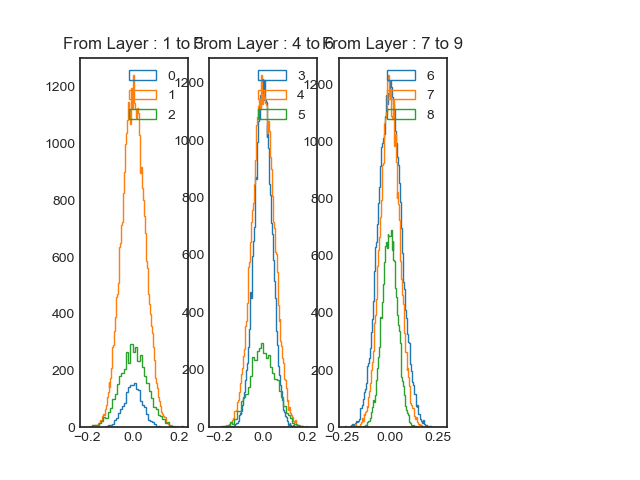
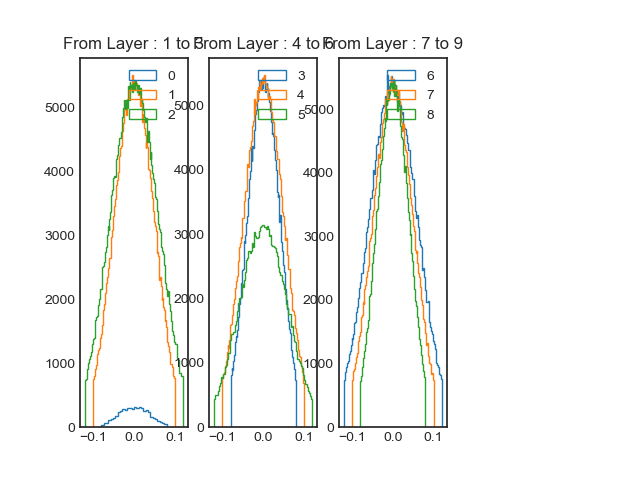
s

diff --git a/NeuralNetwork/Unfair/a.py b/NeuralNetwork/Unfair/a.py
@@ -16,7 +16,7 @@ tf.set_random_seed(678)
 ia.seed(678)
 
 def tf_elu(x): return tf.nn.elu(x)
-def d_tf_elu(x): return tf.cast(tf.greater(x,0),tf.float32)  + ( tf_elu(tf.cast(tf.less_equal(x,0),tf.float32) * x) + 1.0)
+def d_tf_elu(x): return tf.cast(tf.greater(x,0),tf.float32)  + (tf_elu(tf.cast(tf.less_equal(x,0),tf.float32) * x) + 1.0)
 def tf_softmax(x): return tf.nn.softmax(x)
 def unpickle(file):
     import pickle
@@ -63,16 +63,15 @@ def show_hist_of_weigt(all_weight_list,status='before'):
 
 # ================= DATA AUGMENTATION =================
 seq = iaa.Sequential([
-    iaa.Sometimes(0.01,
-        iaa.Affine(
-            # translate_percent={"x": (-0.2, 0.2), "y": (-0.2, 0.2)},
-            rotate=(-25, 25),
-            # scale={"x": (0.8, 1.2), "y": (0.8, 1.2)},
-        )
-    ),
     iaa.Fliplr(1.0), 
-    # iaa.Flipud(0.5), 
-], random_order=True) # apply augmenters in random order
+], random_order=True) 
+seq1 = iaa.Sequential([
+    iaa.Flipud(1.0), 
+], random_order=True) 
+seq2 = iaa.Sequential([
+    iaa.Fliplr(1.0), 
+    iaa.Flipud(1.0), 
+], random_order=True) 
 # ================= DATA AUGMENTATION =================
 
 
@@ -81,19 +80,19 @@ seq = iaa.Sequential([
 class CNN():
     
     def __init__(self,k,inc,out,stddev):
-        self.w = tf.Variable(tf.random_normal([k,k,inc,out],stddev=stddev))
+        self.w = tf.Variable(tf.truncated_normal([k,k,inc,out],stddev=stddev))
         self.m,self.v_prev = tf.Variable(tf.zeros_like(self.w)),tf.Variable(tf.zeros_like(self.w))
         self.v_hat_prev = tf.Variable(tf.zeros_like(self.w))
 
     def getw(self): return self.w
 
-    def feedforward(self,input,stride=1,padding='VALID'):
+    def feedforward(self,input,stride=1,padding='SAME'):
         self.input  = input
         self.layer  = tf.nn.conv2d(input,self.w,strides=[1,stride,stride,1],padding=padding) 
         self.layerA = tf_elu(self.layer)
         return self.layerA 
 
-    def backprop(self,gradient,learning_rate_change,stride=1,padding='VALID'):
+    def backprop(self,gradient,learning_rate_change,stride=1,padding='SAME'):
         grad_part_1 = gradient 
         grad_part_2 = d_tf_elu(self.layer) 
         grad_part_3 = self.input
@@ -205,17 +204,25 @@ test_label_f  = open(PathDicom+"test_y.bin",'rb')
 # So I am going to switch 
 onehot_encoder = OneHotEncoder(sparse=True)
 
-train_batch = np.fromfile(train_file, dtype=np.uint8)
-train_batch = np.reshape(train_batch, (-1, 3, 96, 96))
-train_batch = np.transpose(train_batch, (0, 3, 2, 1))
+x_data = np.fromfile(train_file, dtype=np.uint8)
+x_data = np.reshape(x_data, (-1, 3, 96, 96))
+x_data = np.transpose(x_data, (0, 3, 2, 1))
 train_label_pure = np.expand_dims(np.fromfile(train_label_f, dtype=np.uint8).astype(np.float64),axis=1)
 train_label = onehot_encoder.fit_transform(train_label_pure).toarray().astype(np.float32)
 
-test_batch = np.fromfile(test_file, dtype=np.uint8)
-test_batch = np.reshape(test_batch, (-1, 3, 96, 96))
-test_batch = np.transpose(test_batch, (0, 3, 2, 1))
+y_data = np.fromfile(test_file, dtype=np.uint8)
+y_data = np.reshape(y_data, (-1, 3, 96, 96))
+y_data = np.transpose(y_data, (0, 3, 2, 1))
 test_label = np.expand_dims(np.fromfile(test_label_f, dtype=np.uint8).astype(np.float64),axis=1)
 test_label = onehot_encoder.fit_transform(test_label).toarray().astype(np.float32)
+
+train_batch = np.zeros((len(x_data),64,64,3))
+test_batch = np.zeros((len(y_data),64,64,3))
+
+for x in range(len(x_data)):
+    train_batch[x,:,:,:] = imresize(x_data[x,:,:,:],(64,64))
+for x in range(len(y_data)):
+    test_batch[x,:,:,:] =  imresize(y_data[x,:,:,:],(64,64))
 
 # print out the data shape
 print(train_batch.shape)
@@ -240,26 +247,26 @@ test_batch = test_batch/255.0
 
 # hyper parameter
 num_epoch = 21
-batch_size = 2
+batch_size = 16
 print_size = 1
 
 learning_rate = 0.00001
 learnind_rate_decay = 0.0
-beta1,beta2,adam_e = 0.9,0.9,1e-8
+beta1,beta2,adam_e = 0.9,0.999,1e-8
 
 # define class
-channel_sizes = 64
+channel_sizes = 200
 l1 = CNN(3,3,channel_sizes,stddev=0.04)
 l2 = CNN(3,channel_sizes,channel_sizes,stddev=0.05)
-l3 = CNN(1,channel_sizes,channel_sizes,stddev=0.06)
+l3 = CNN(3,channel_sizes,channel_sizes,stddev=0.06)
 
 l4 = CNN(3,channel_sizes,channel_sizes,stddev=0.04)
 l5 = CNN(3,channel_sizes,channel_sizes,stddev=0.05)
-l6 = CNN(1,channel_sizes,channel_sizes,stddev=0.06)
+l6 = CNN(2,channel_sizes,channel_sizes,stddev=0.06)
 
 l7 = CNN(3,channel_sizes,channel_sizes,stddev=0.06)
 l8 = CNN(3,channel_sizes,channel_sizes,stddev=0.05)
-l9 = CNN(2,channel_sizes,channel_sizes,stddev=0.04)
+l9 = CNN(3,channel_sizes,channel_sizes,stddev=0.04)
 
 l10 = CNN(3,channel_sizes,channel_sizes,stddev=0.06)
 l11 = CNN(1,channel_sizes,channel_sizes,stddev=0.05)
@@ -273,7 +280,7 @@ all_weights = [
     ]
 
 # graph
-x = tf.placeholder(shape=[batch_size,96,96,3],dtype=tf.float32)
+x = tf.placeholder(shape=[batch_size,64,64,3],dtype=tf.float32)
 y = tf.placeholder(shape=[batch_size,10],dtype=tf.float32)
 
 iter_variable = tf.placeholder(tf.float32, shape=())
@@ -282,23 +289,23 @@ learning_rate_change = learning_rate_dynamic * (1.0/(1.0+learnind_rate_decay*ite
 phase = tf.placeholder(tf.bool)
 
 layer1 = l1.feedforward(x)
-layer2 = l2.feedforward(layer1)
+layer2 = l2.feedforward(layer1) 
 layer3 = l3.feedforward(layer2)
 
 layer4_Input = tf.nn.avg_pool(layer3,ksize=[1,2,2,1],strides=[1,2,2,1],padding='VALID')
 layer4 = l4.feedforward(layer4_Input)
-layer5 = l5.feedforward(layer4)
-layer6 = l6.feedforward(layer5)
+layer5 = l5.feedforward(layer4) 
+layer6 = l6.feedforward(layer5) 
 
 layer7_Input = tf.nn.avg_pool(layer6,ksize=[1,2,2,1],strides=[1,2,2,1],padding='VALID')
 layer7 = l7.feedforward(layer7_Input)
-layer8 = l8.feedforward(layer7)
-layer9 = l9.feedforward(layer8)
+layer8 = l8.feedforward(layer7) 
+layer9 = l9.feedforward(layer8) 
 
 layer10_Input = tf.nn.avg_pool(layer9,ksize=[1,2,2,1],strides=[1,2,2,1],padding='VALID')
 layer10 = l10.feedforward(layer10_Input)
-layer11 = l11.feedforward(layer10)
-layer12 = l12.feedforward(layer11)
+layer11 = l11.feedforward(layer10) 
+layer12 = l12.feedforward(layer11) 
 
 final_global = tf.reduce_mean(layer12,[1,2])
 final_soft = tf_softmax(final_global)
@@ -307,16 +314,16 @@ cost = tf.reduce_mean(tf.nn.softmax_cross_entropy_with_logits_v2(logits=final_gl
 correct_prediction = tf.equal(tf.argmax(final_soft, 1), tf.argmax(y, 1))
 accuracy = tf.reduce_mean(tf.cast(correct_prediction, tf.float32))
 
-# grad_prepare = tf_repeat(tf.reshape(final_soft-y,[batch_size,1,1,10]),[1,12,12,1])
+# grad_prepare = tf_repeat(tf.reshape(final_soft-y,[batch_size,1,1,10]),[1,6,6,1])
 grad_prepare = tf.reshape(final_soft-y,[batch_size,1,1,10]) # Broken Back Prop
 grad12,grad12_up = l12.backprop(grad_prepare,learning_rate_change=learning_rate_change)
-grad11,grad11_up = l11.backprop(grad12,learning_rate_change=learning_rate_change)
-grad10,grad10_up = l10.backprop(grad11,learning_rate_change=learning_rate_change)
+grad11,grad11_up = l11.backprop(grad12,learning_rate_change=learning_rate_change) 
+grad10,grad10_up = l10.backprop(grad11,learning_rate_change=learning_rate_change) 
 
 grad9_Input = tf_repeat(grad10,[1,2,2,1])
-grad9,grad9_up = l9.backprop(grad9_Input,learning_rate_change=learning_rate_change)
-grad8,grad8_up = l8.backprop(grad9,learning_rate_change=learning_rate_change)
-grad7,grad7_up = l7.backprop(grad8,learning_rate_change=learning_rate_change)
+grad9,grad9_up = l9.backprop(grad9_Input,learning_rate_change=learning_rate_change) 
+grad8,grad8_up = l8.backprop(grad9,learning_rate_change=learning_rate_change) 
+grad7,grad7_up = l7.backprop(grad8,learning_rate_change=learning_rate_change) 
 
 grad6_Input = tf_repeat(grad7,[1,2,2,1])
 grad6,grad6_up = l6.backprop(grad6_Input,learning_rate_change=learning_rate_change)
@@ -354,14 +361,23 @@ with tf.Session() as sess:
 
         train_batch,train_label = shuffle(train_batch,train_label)
 
-        for batch_size_index in range(0,len(train_batch),batch_size//2):
-            current_batch = train_batch[batch_size_index:batch_size_index+batch_size//2]
-            current_batch_label = train_label[batch_size_index:batch_size_index+batch_size//2]
+        for batch_size_index in range(0,len(train_batch),batch_size//4):
+            current_batch = train_batch[batch_size_index:batch_size_index+batch_size//4]
+            current_batch_label = train_label[batch_size_index:batch_size_index+batch_size//4]
 
             # online data augmentation here and standard normalization
+            images_aug  = seq.augment_images(current_batch.astype(np.float32))
             images_aug1 = seq.augment_images(current_batch.astype(np.float32))
-            current_batch = np.vstack((current_batch,images_aug1)).astype(np.float32)
-            current_batch_label = np.vstack((current_batch_label,current_batch_label)).astype(np.float32)
+            images_aug2 = seq.augment_images(current_batch.astype(np.float32))
+
+            current_batch1 = np.vstack((current_batch,images_aug)).astype(np.float32)
+            current_batch2 = np.vstack((images_aug1,images_aug2)).astype(np.float32)
+            current_batch = np.vstack((current_batch1,current_batch2)).astype(np.float32)
+
+            current_batch_label1 = np.vstack((current_batch_label,current_batch_label)).astype(np.float32)
+            current_batch_label2 = np.vstack((current_batch_label,current_batch_label)).astype(np.float32)
+            current_batch_label = np.vstack((current_batch_label1,current_batch_label2)).astype(np.float32)
+
             current_batch,current_batch_label  = shuffle(current_batch,current_batch_label)
             # online data augmentation here and standard normalization
 
@@ -383,12 +399,12 @@ with tf.Session() as sess:
 
         if iter % print_size==0:
             print("\n---------- Learning Rate : ", learning_rate * (1.0/(1.0+learnind_rate_decay*iter)) )
-            print('Train Current cost: ', train_cota/(len(train_batch)/(batch_size//2)),' Current Acc: ', train_acca/(len(train_batch)/(batch_size//2) ),end='\n')
+            print('Train Current cost: ', train_cota/(len(train_batch)/(batch_size//4)),' Current Acc: ', train_acca/(len(train_batch)/(batch_size//4) ),end='\n')
             print('Test Current cost: ', test_cota/(len(test_batch)/batch_size),' Current Acc: ', test_acca/(len(test_batch)/batch_size),end='\n')
             print("----------")
 
-        train_acc.append(train_acca/(len(train_batch)/(batch_size//2)))
-        train_cot.append(train_cota/(len(train_batch)/(batch_size//2)))
+        train_acc.append(train_acca/(len(train_batch)/(batch_size//4)))
+        train_cot.append(train_cota/(len(train_batch)/(batch_size//4)))
         test_acc.append(test_acca/(len(test_batch)/batch_size))
         test_cot.append(test_cota/(len(test_batch)/batch_size))
         test_cota,test_acca = 0,0
